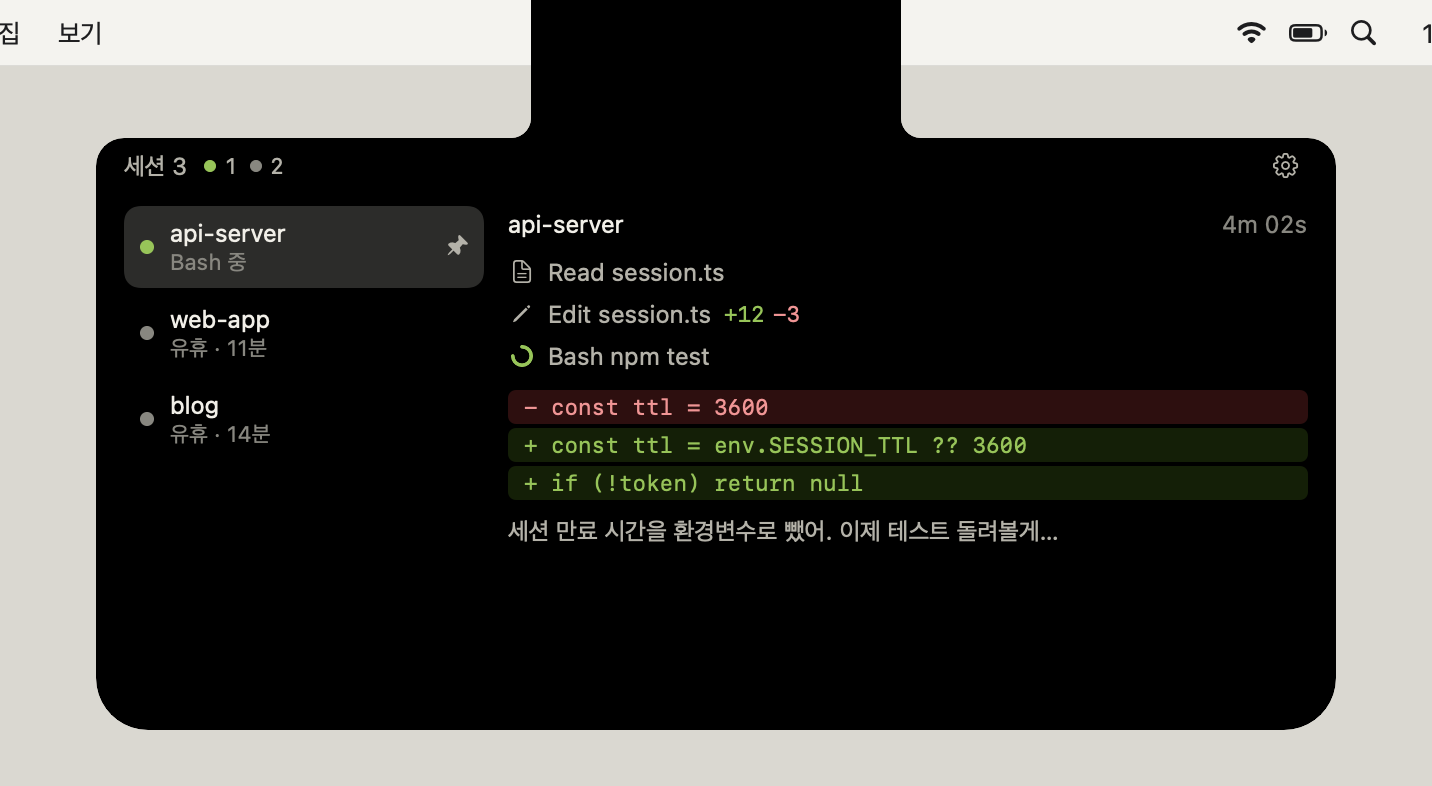
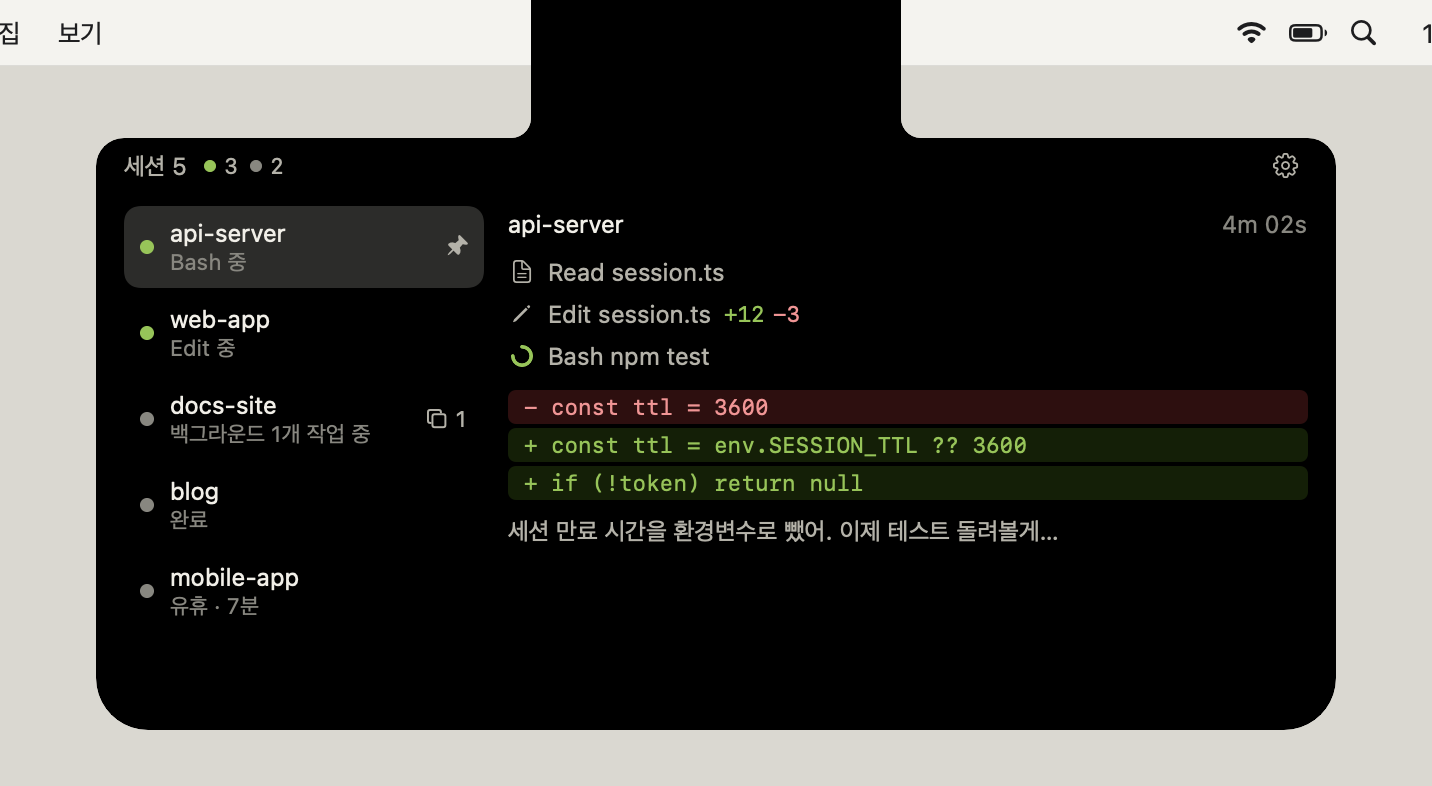
📝 README 사진을 새 기능으로 다시 찍고 이모지 · 특수문자 정리
- 펼친 화면 사진: 세션 5개로 상태 묶음 순 목록을 보여줌 (고정한 api-server · 고치는 중인 web-app → 백그라운드만 도는
  docs-site → 방금 끝난 blog · 쉬는 mobile-app). 스냅숏 장면 expanded 에 다른 세션들을 더함 (otherSessionsAtWork)
- 질문 사진: Claude 앱 세션의 질문을 노치에서 고르는 카드("Claude로" 버튼)로 바꿈. 새 장면 question-desktop,
  docs/images/question.png → question-desktop.png
- README: 제목 · 기능 목록의 이모지를 빼고, "·" · "→" · "+N −M" 같은 기호 대신 문장으로 풀어 씀.
  기능 목록에 진행 중인 세션이 위로 오는 목록, Claude 앱 세션도 노치에서 질문에 답하기, "Claude로"로 세션 바로 열기 추가
- 나머지 사진(작업 중 · 메뉴바 알약 · 권한 요청 · 미리보기 · 완료)은 화면이 그대로라 픽셀도 같음

diff --git a/Sources/NotchUI/Snapshot/SnapshotFixtures.swift b/Sources/NotchUI/Snapshot/SnapshotFixtures.swift
@@ -173,6 +173,33 @@ struct SnapshotWorld {
         send(Self.mobileApp, "SessionStart", at: 420, ["source": "startup"])
     }
 
+    /// 펼친 목록 장면용 다른 세션들: blog 는 오타를 고치고 끝남(미확인 완료), docs-site 는 답변은 끝나고 문서 서버(백그라운드 셸)만 도는 중,
+    /// web-app 은 파일을 고치는 중. `startMoreSessions` 다음, `apiServerEdits` 전에 부른다 (mobile-app 은 쉬는 중 그대로)
+    mutating func otherSessionsAtWork() {
+        let blog = Self.blog
+        send(blog, "UserPromptSubmit", at: 430, ["prompt": "글 오타 고쳐줘"])
+        let post = "\(blog.cwd)/posts/hello.md"
+        tool(blog, "Edit", at: 440, input: ["file_path": post], response: [
+            "filePath": post, "structuredPatch": [Self.hunk(newStart: 3, removed: ["안녕하새요"], added: ["안녕하세요"])],
+        ])
+        send(blog, "Stop", at: 445, ["stop_hook_active": false, "last_assistant_message": "오타 한 군데 고쳤어."])
+
+        let docs = Self.docsSite
+        send(docs, "UserPromptSubmit", at: 460, ["prompt": "문서 사이트 띄워줘"])
+        tool(docs, "Bash", at: 465, input: ["command": "npm run docs", "description": "문서 서버", "run_in_background": true], response: [
+            "stdout": "", "stderr": "", "interrupted": false, "backgroundTaskId": "snapshot-docs-shell",
+        ])
+        send(docs, "Stop", at: 470, ["stop_hook_active": false, "last_assistant_message": "문서 서버 띄워 뒀어."])
+        // 끝난 답변은 이미 확인함 (목록에 "완료" 대신 "백그라운드 1개 작업 중")
+        store.markSeen(sessionID: docs.id)
+
+        let web = Self.webApp
+        send(web, "UserPromptSubmit", at: 560, ["prompt": "로그인 폼에 입력 검사 넣어줘"])
+        let form = "\(web.cwd)/src/LoginForm.tsx"
+        tool(web, "Read", at: 565, input: ["file_path": form], response: ["type": "text"])
+        start(web, "Edit", at: 570, input: ["file_path": form, "old_string": "onSubmit(values)", "new_string": "if (validate(values)) onSubmit(values)"])
+    }
+
     /// api-server: Read → Edit(+12 −3) → 응답 한 줄 (피크 직전 상태). 수정된 diff 를 돌려준다.
     @discardableResult
     mutating func apiServerEdits() -> DiffSnippet? {

diff --git a/Sources/NotchUI/IslandSnapshotRenderer.swift b/Sources/NotchUI/IslandSnapshotRenderer.swift
@@ -99,6 +99,8 @@ enum SnapshotScenario: String, CaseIterable {
     case permissionDesktop = "permission-desktop"
     /// 노치에서 답하는 질문: 한 개 고르기 (선택지 설명 있음)
     case question
+    /// `question` 인데 질문한 세션이 Claude 데스크톱 앱에서 돌아감: 앱을 보고 있어도 노치에서 고름 (버튼이 "Claude로")
+    case questionDesktop = "question-desktop"
     /// 여러 개 고르는 질문 (둘 고름)
     case questionMulti = "question-multi"
     /// 질문 두 개 (1/2 쪽, 첫 질문 답 고름)
@@ -552,7 +554,10 @@ enum SnapshotStage {
             showCompact()
             world.blogAsksQuestion()
             presentation.handleLatestSignal()
-        case .question, .questionMulti, .questionPages, .questionOther, .menubarQuestion:
+        case .question, .questionDesktop, .questionMulti, .questionPages, .questionOther, .menubarQuestion:
+            if scene == .questionDesktop {
+                world.hostEnvironment[SnapshotWorld.blog.id] = SnapshotWorld.desktopEnvironment
+            }
             world.apiServerEdits()
             world.apiServerRunsTests()
             showCompact()
@@ -598,6 +603,12 @@ enum SnapshotStage {
             world.webAppFails()
             world.clock.set(1302)
         case .expanded, .expandedUpdate:
+            if scene == .expanded {
+                // README: 상태 묶음 순 목록. 진행 중(고정한 api-server 가 묶음 맨 앞, web-app) → 백그라운드만 도는 docs-site
+                // → 끝남(방금 끝난 blog, 쉬는 mobile-app)
+                world.startMoreSessions()
+                world.otherSessionsAtWork()
+            }
             world.apiServerEdits()
             world.apiServerRunsTests()
             world.store.togglePin(sessionID: api)

diff --git a/README.md b/README.md
@@ -10,56 +10,57 @@
 
 </div>
 
----
-
-터미널로 돌아가지 않고 노치에서 바로 확인하고 처리해요.
+터미널이나 Claude 앱으로 돌아가지 않고 노치에서 바로 확인하고 처리해요.
 
 <p align="center">
-  <img src="docs/images/expanded.png" width="640" alt="펼친 아일랜드: 세션 목록(고정한 세션에 핀)과 보고 있는 세션의 타임라인 · diff · 최근 응답">
+  <img src="docs/images/expanded.png" width="640" alt="펼친 아일랜드: 진행 중인 세션이 위에 오는 세션 목록과 보고 있는 세션의 타임라인, 바뀐 줄, 최근 응답">
 </p>
 
-- 🟢 **지금 하는 일**: 프로젝트 · 툴 이름 · `+N −M`, 전체 세션 상태, 백그라운드 작업 수
-- 🔁 **여러 세션**: 일하는 세션을 몇 초마다 넘기며 번갈아 보여주고, 알림 온 세션은 바로. 우클릭으로 고정
-- ✏ **미니 diff**: 파일을 고치면 잠깐 펼쳐서 바뀐 줄을 보여줘요
-- 🔐 **권한 요청 · 질문**: 삭제 같은 권한 요청도 노치에서 바로 허용 · 거부 (Claude 앱을 보고 있어도), Claude 가 묻는 객관식 질문 · 계획 승인에 답하기
-- ✅ **완료 알림**: 걸린 시간 · 바뀐 파일 · 마지막 응답 한 줄
-- 🖥 **외부 모니터**: 메뉴바 안 알약으로 같은 내용을 보여줘요
-- 🔒 **세션 내용은 내 맥 밖으로 나가지 않아요**: 네트워크 통신은 하루 한 번 새 버전 확인뿐이에요
+## 주요 기능
 
-## 📸 화면
+- **지금 하는 일**: 프로젝트와 쓰고 있는 툴, 바뀐 줄 수, 전체 세션 상태, 백그라운드 작업 수를 보여줘요.
+- **여러 세션**: 일하는 세션을 몇 초마다 번갈아 보여주고, 알림이 온 세션은 바로 띄워요. 우클릭으로 고정할 수 있고, 펼친 목록은 진행 중인 세션이 위로 와요.
+- **권한 요청과 질문**: 삭제 같은 권한 요청을 노치에서 바로 허용하거나 거부하고, Claude가 묻는 객관식 질문과 계획 승인에도 답해요. Claude 앱을 보고 있을 때도 돼요.
+- **세션으로 바로 이동**: 카드의 "Claude로"를 누르면 Claude 앱에서 그 세션이 바로 열려요. 터미널 세션은 그 터미널로 가요.
+- **파일 수정 미리보기**: 파일을 고치면 잠깐 펼쳐서 바뀐 줄을 보여줘요.
+- **완료 알림**: 걸린 시간과 바뀐 파일, 마지막 응답 한 줄을 보여줘요.
+- **외부 모니터**: 노치가 없는 화면에서는 메뉴바 안의 알약으로 같은 내용을 보여줘요.
+- **개인정보**: 세션 내용은 내 맥 밖으로 나가지 않아요. 네트워크 통신은 하루 한 번 새 버전 확인뿐이에요.
 
-| 권한 요청 (노치에서 바로 승인) | 질문 (선택지 고르기) |
+## 화면
+
+| 권한 요청 (노치에서 바로 승인) | 질문 (Claude 앱 세션도 노치에서 고르기) |
 |:-:|:-:|
-| <img src="docs/images/permission-desktop.png" width="420" alt="Claude 앱 세션의 삭제 권한 요청 카드: rm -rf 명령 · 항상 허용 규칙 · 허용 · 항상 허용 · 거부 · Claude로"> | <img src="docs/images/question.png" width="420" alt="질문 카드: 권장 표시가 붙은 선택지와 기타 직접 입력"> |
+| <img src="docs/images/permission-desktop.png" width="420" alt="Claude 앱 세션의 삭제 권한 요청 카드: 실행할 명령, 항상 허용 규칙, 허용, 항상 허용, 거부, Claude로 버튼"> | <img src="docs/images/question-desktop.png" width="420" alt="Claude 앱 세션의 질문 카드: 권장 표시가 붙은 선택지, 기타 직접 입력, Claude로 버튼"> |
 | **파일 수정 미리보기** | **완료** |
-| <img src="docs/images/peek.png" width="420" alt="수정 미리보기: 파일 이름 · 줄 번호 · 바뀐 줄"> | <img src="docs/images/done.png" width="420" alt="완료 카드: 걸린 시간 · 바뀐 파일 수 · 마지막 응답 한 줄"> |
+| <img src="docs/images/peek.png" width="420" alt="수정 미리보기: 파일 이름, 줄 번호, 바뀐 줄"> | <img src="docs/images/done.png" width="420" alt="완료 카드: 걸린 시간, 바뀐 파일 수, 마지막 응답 한 줄"> |
 | **작업 중 (노치 아래 띠)** | **외부 모니터 (메뉴바 안 알약)** |
-| <img src="docs/images/working.png" width="420" alt="노치 아래 띠: 프로젝트 · 툴 이름 · 바뀐 줄 수와 세션 상태 요약"> | <img src="docs/images/menubar-working.png" width="420" alt="메뉴바 안 알약: 같은 내용을 한 줄로"> |
+| <img src="docs/images/working.png" width="420" alt="노치 아래 띠: 프로젝트, 툴 이름, 바뀐 줄 수와 세션 상태 요약"> | <img src="docs/images/menubar-working.png" width="420" alt="메뉴바 안 알약: 같은 내용을 한 줄로"> |
 
-> 스크린샷은 가짜 데이터로 실제 화면을 그린 거예요 (`scripts/readme-images.sh`).
+스크린샷은 가짜 데이터로 실제 화면을 그린 거예요 (`scripts/readme-images.sh`).
 
-## 📦 설치
+## 설치
 
 ```bash
 brew tap ldg030201/agent-notch https://github.com/ldg030201/agent-notch && brew trust ldg030201/agent-notch && brew install -y agent-notch && cp -R "$(brew --prefix agent-notch)/AgentNotch.app" /Applications/ && open /Applications/AgentNotch.app
 ```
 
-macOS 14 이상과 Homebrew 만 있으면 돼요 (Xcode 불필요).
-애플 개발자 서명 · 공증을 못 해서 cask 대신 formula 로 배포해요. 그래서 Gatekeeper 에 막히지 않아요.
+macOS 14 이상과 Homebrew만 있으면 돼요. Xcode는 필요 없어요.
+애플 개발자 서명과 공증을 받지 못해서 cask 대신 formula로 배포해요. 그래서 Gatekeeper에 막히지 않아요.
 
-## 🚀 시작하기
+## 시작하기
 
-1. 앱을 처음 실행하면 Claude Code 훅 설치와 로그인할 때 자동으로 켜기를 한 번에 물어봐요. 훅은 `~/.claude/settings.json` 을 백업한 뒤 AgentNotch 항목만 추가해요.
-2. 새로 시작하는 Claude Code 세션부터 노치에 나타나요. 훅 없이 먼저 보려면 메뉴바 아이콘 → **데모 재생**.
+1. 앱을 처음 실행하면 Claude Code 훅 설치와 로그인할 때 자동으로 켜기를 한 번에 물어봐요. 훅은 `~/.claude/settings.json`을 백업한 뒤 AgentNotch 항목만 추가해요.
+2. 새로 시작하는 Claude Code 세션부터 노치에 나타나요. 훅 없이 먼저 보려면 메뉴바 아이콘을 누르고 **데모 재생**을 고르세요.
 
-업데이트는 설정 → **버전** 에서 버튼 하나로 해요.
+업데이트는 설정의 **버전** 탭에서 버튼 하나로 해요.
 
-## 📚 더 보기
+## 더 보기
 
-- [사용 가이드](docs/usage.md): 화면 · 단축키 · 설정 · 외부 모니터 · 업데이트 · 제거 · 문제 해결 · 개인정보
-- [개발 · 릴리스](docs/development.md)
+- [사용 가이드](docs/usage.md): 화면, 단축키, 설정, 외부 모니터, 업데이트, 제거, 문제 해결, 개인정보
+- [개발과 릴리스](docs/development.md)
 - [설계](docs/architecture.md)
 
-## 📄 라이선스
+## 라이선스
 
 [MIT](LICENSE)
